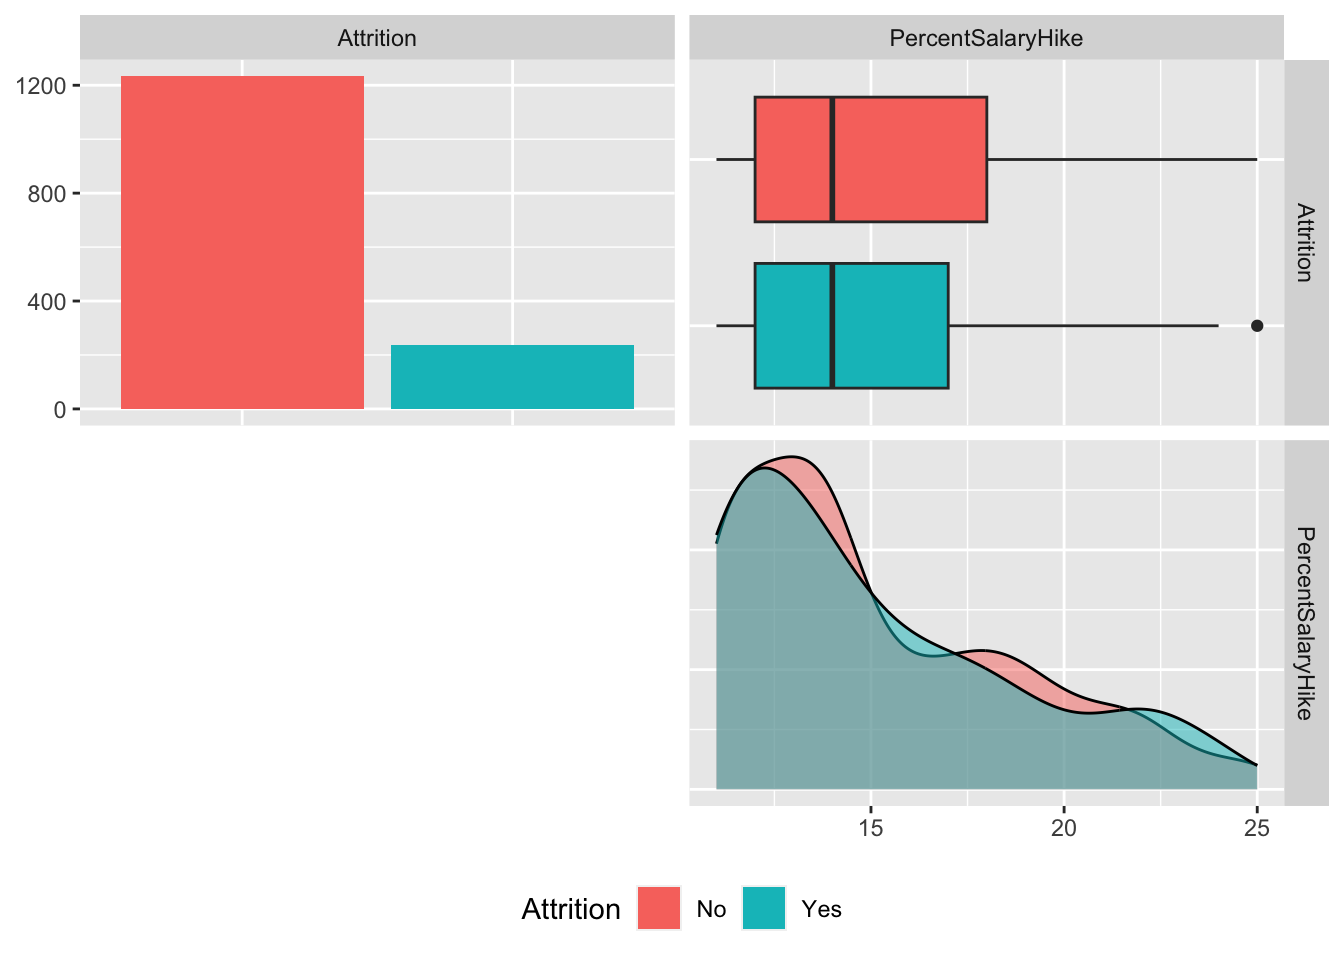
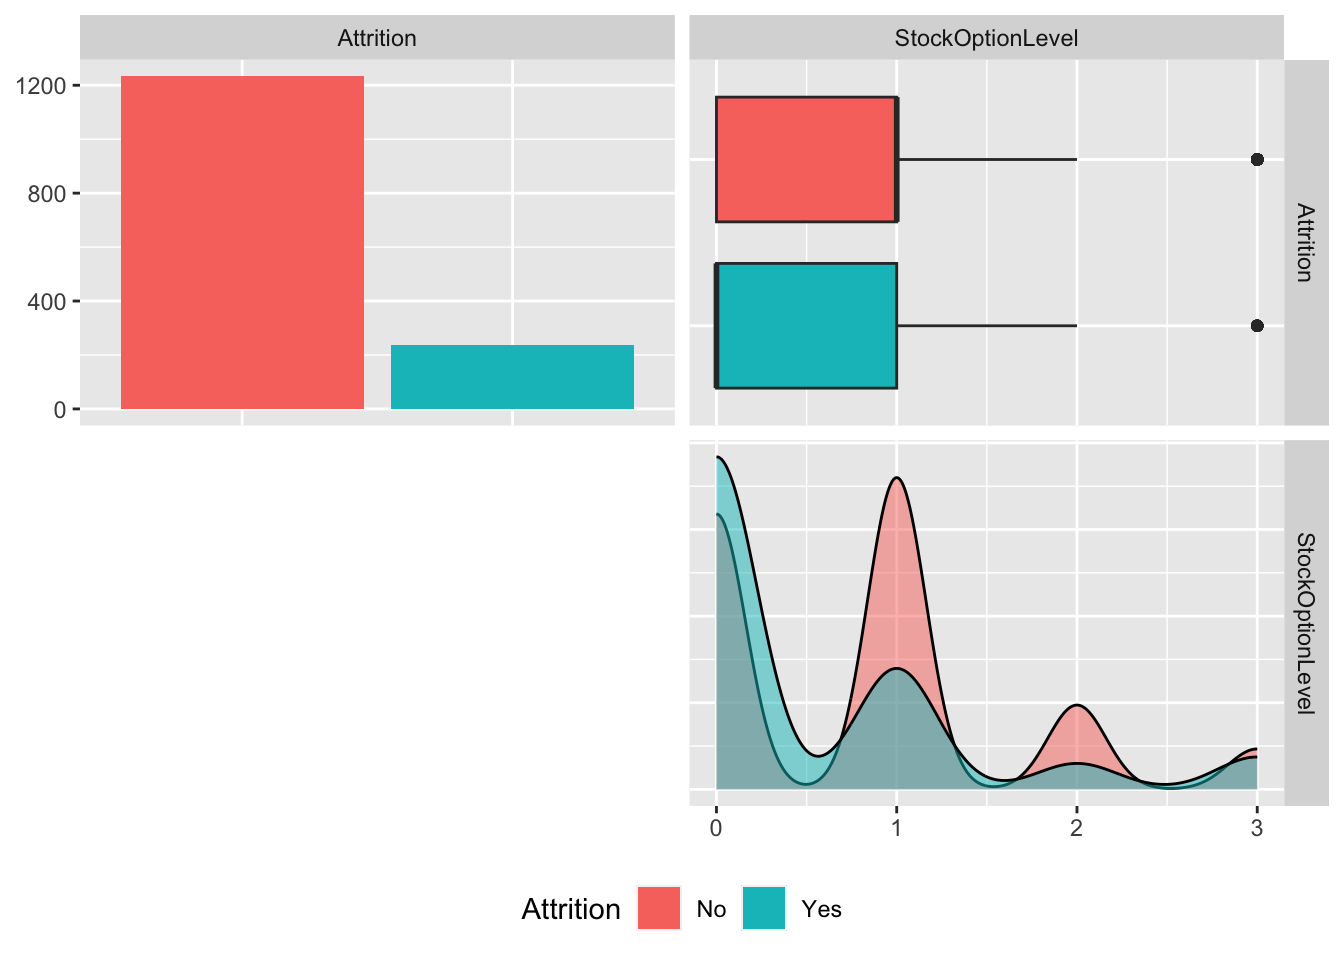
Challenge4

diff --git a/_site/content/01_journal/Challenge_3.html b/_site/content/01_journal/Challenge_3.html
@@ -191,6 +191,8 @@ code span.wa { color: #60a0b0; font-weight: bold; font-style: italic; } /* Warni
 <li><a href="#loading-required-libraries" id="toc-loading-required-libraries" class="nav-link active" data-scroll-target="#loading-required-libraries"><span class="toc-section-number">1</span>  Loading required libraries</a></li>
   <li><a href="#interaction-between-monthly-income-and-attrition" id="toc-interaction-between-monthly-income-and-attrition" class="nav-link" data-scroll-target="#interaction-between-monthly-income-and-attrition"><span class="toc-section-number">2</span>  Interaction between Monthly Income and Attrition?</a></li>
   <li><a href="#interaction-between-percent-salary-hike-and-attrition" id="toc-interaction-between-percent-salary-hike-and-attrition" class="nav-link" data-scroll-target="#interaction-between-percent-salary-hike-and-attrition"><span class="toc-section-number">3</span>  Interaction between Percent Salary Hike and Attrition?</a></li>
+  <li><a href="#interaction-between-stock-option-level-and-attrition" id="toc-interaction-between-stock-option-level-and-attrition" class="nav-link" data-scroll-target="#interaction-between-stock-option-level-and-attrition"><span class="toc-section-number">4</span>  Interaction between Stock Option Level and Attrition?</a></li>
+  <li><a href="#interaction-between-environment-satisfaction-and-attrition" id="toc-interaction-between-environment-satisfaction-and-attrition" class="nav-link" data-scroll-target="#interaction-between-environment-satisfaction-and-attrition"><span class="toc-section-number">5</span>  Interaction between Environment Satisfaction and Attrition?</a></li>
   </ul></nav>
     </div>
 <!-- main -->
@@ -273,7 +275,47 @@ code span.wa { color: #60a0b0; font-weight: bold; font-style: italic; } /* Warni
 </div>
 </div>
 </div>
-<p>Answer d.&nbsp;should be correct</p>
+<p>Answer d..</p>
+</section><section id="interaction-between-stock-option-level-and-attrition" class="level1" data-number="4"><h1 data-number="4">
+<span class="header-section-number">4</span> Interaction between Stock Option Level and Attrition?</h1>
+<div class="cell" data-hash="Challenge_3_cache/html/unnamed-chunk-4_7d387a11a738903d4c092ea71c5380a7">
+<div class="sourceCode cell-code" id="cb5"><pre class="sourceCode numberSource r number-lines code-with-copy"><code class="sourceCode r"><span id="cb5-1"><a href="#cb5-1"></a><span class="co"># a. Those that are leaving the company have a higher stock option level</span></span>
+<span id="cb5-2"><a href="#cb5-2"></a><span class="co"># b. Those that are staying have a higher stock option level</span></span>
+<span id="cb5-3"><a href="#cb5-3"></a><span class="co"># c. It's difficult to deduce anything based on the visualization</span></span>
+<span id="cb5-4"><a href="#cb5-4"></a></span>
+<span id="cb5-5"><a href="#cb5-5"></a>employee_attrition_tbl <span class="sc">%&gt;%</span> </span>
+<span id="cb5-6"><a href="#cb5-6"></a>  <span class="fu">select</span>(Attrition, StockOptionLevel) <span class="sc">%&gt;%</span> </span>
+<span id="cb5-7"><a href="#cb5-7"></a>  <span class="fu">ggpairs</span>(<span class="fu">aes</span>(<span class="at">color =</span> Attrition), <span class="at">lower =</span> <span class="st">"blank"</span>, <span class="at">legend =</span> <span class="dv">1</span>,</span>
+<span id="cb5-8"><a href="#cb5-8"></a>            <span class="at">diag  =</span> <span class="fu">list</span>(<span class="at">continuous =</span> <span class="fu">wrap</span>(<span class="st">"densityDiag"</span>, <span class="at">alpha =</span> <span class="fl">0.5</span>))) <span class="sc">+</span></span>
+<span id="cb5-9"><a href="#cb5-9"></a>    <span class="fu">theme</span>(<span class="at">legend.position =</span> <span class="st">"bottom"</span>)</span></code><button title="Copy to Clipboard" class="code-copy-button"><i class="bi"></i></button></pre></div>
+<div class="cell-output-display">
+<div class="quarto-figure quarto-figure-center">
+<figure class="figure"><p><a href="Challenge_3_files/figure-html/unnamed-chunk-4-1.png" class="lightbox" data-gallery="quarto-lightbox-gallery-3"><img src="Challenge_3_files/figure-html/unnamed-chunk-4-1.png" class="img-fluid figure-img" width="672"></a></p>
+</figure>
+</div>
+</div>
+</div>
+<p>Answer c..</p>
+</section><section id="interaction-between-environment-satisfaction-and-attrition" class="level1" data-number="5"><h1 data-number="5">
+<span class="header-section-number">5</span> Interaction between Environment Satisfaction and Attrition?</h1>
+<div class="cell" data-hash="Challenge_3_cache/html/unnamed-chunk-5_a237bb05192d38e908c3a1464b68e79b">
+<div class="sourceCode cell-code" id="cb6"><pre class="sourceCode numberSource r number-lines code-with-copy"><code class="sourceCode r"><span id="cb6-1"><a href="#cb6-1"></a><span class="co"># a. A higher proportion of those leaving have a low environment satisfaction level</span></span>
+<span id="cb6-2"><a href="#cb6-2"></a><span class="co"># b. A higher proportion of those leaving have a high environment satisfaction level</span></span>
+<span id="cb6-3"><a href="#cb6-3"></a><span class="co"># c. It's difficult to deduce anything based on the visualization</span></span>
+<span id="cb6-4"><a href="#cb6-4"></a></span>
+<span id="cb6-5"><a href="#cb6-5"></a>employee_attrition_tbl <span class="sc">%&gt;%</span> </span>
+<span id="cb6-6"><a href="#cb6-6"></a>  <span class="fu">select</span>(Attrition, EnvironmentSatisfaction) <span class="sc">%&gt;%</span> </span>
+<span id="cb6-7"><a href="#cb6-7"></a>  <span class="fu">ggpairs</span>(<span class="fu">aes</span>(<span class="at">color =</span> Attrition), <span class="at">lower =</span> <span class="st">"blank"</span>, <span class="at">legend =</span> <span class="dv">1</span>,</span>
+<span id="cb6-8"><a href="#cb6-8"></a>            <span class="at">diag  =</span> <span class="fu">list</span>(<span class="at">continuous =</span> <span class="fu">wrap</span>(<span class="st">"densityDiag"</span>, <span class="at">alpha =</span> <span class="fl">0.5</span>))) <span class="sc">+</span></span>
+<span id="cb6-9"><a href="#cb6-9"></a>    <span class="fu">theme</span>(<span class="at">legend.position =</span> <span class="st">"bottom"</span>)</span></code><button title="Copy to Clipboard" class="code-copy-button"><i class="bi"></i></button></pre></div>
+<div class="cell-output-display">
+<div class="quarto-figure quarto-figure-center">
+<figure class="figure"><p><a href="Challenge_3_files/figure-html/unnamed-chunk-5-1.png" class="lightbox" data-gallery="quarto-lightbox-gallery-4"><img src="Challenge_3_files/figure-html/unnamed-chunk-5-1.png" class="img-fluid figure-img" width="672"></a></p>
+</figure>
+</div>
+</div>
+</div>
+<p>Answer a..</p>
 
 
 </section></main><!-- /main --><script id="quarto-html-after-body" type="application/javascript">
@@ -525,7 +567,7 @@ window.document.addEventListener("DOMContentLoaded", function (event) {
 });
 </script>
 </div> <!-- /content -->
-<script>var lightboxQuarto = GLightbox({"descPosition":"bottom","closeEffect":"zoom","selector":".lightbox","loop":true,"openEffect":"zoom"});</script>
+<script>var lightboxQuarto = GLightbox({"descPosition":"bottom","closeEffect":"zoom","loop":true,"openEffect":"zoom","selector":".lightbox"});</script>
 
 
 </body></html>
